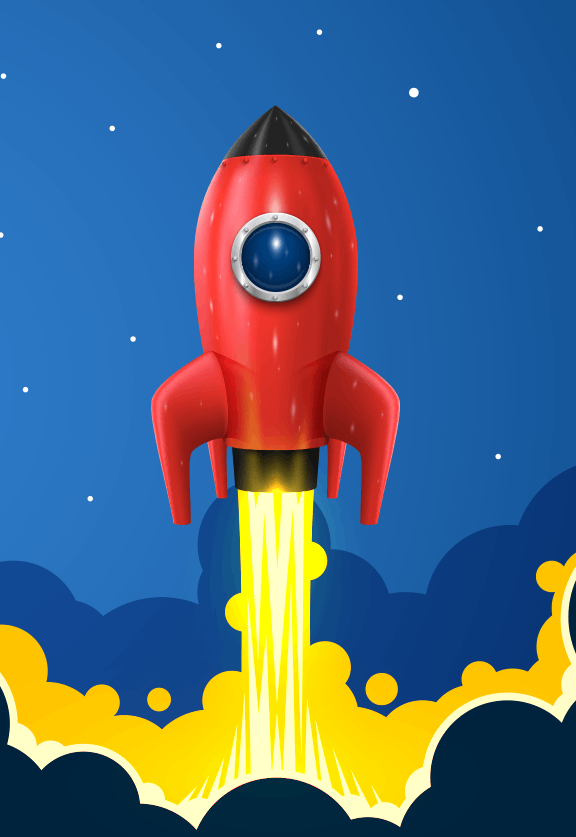
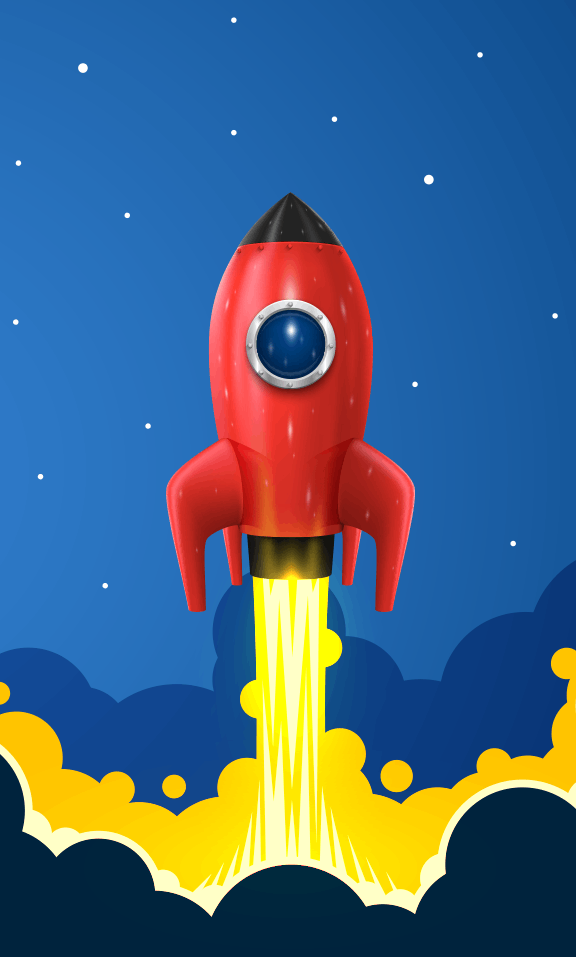
new landing page

diff --git a/css/site.css b/css/site.css
@@ -17,19 +17,11 @@ font-family: 'Racing Sans One', cursive;
 font-family: 'Roboto', sans-serif; */
 
 /* MAIN HEADER */
-.mainHeader {
-    margin-top: 50vh;
-    height: 50px;        
-    color: var(--cf-light);
-  }
-
 .mainTitle {
     font-family: var(--cf-title-font);
     font-size: 2.3rem;
     line-height: 1.8rem;
-    color: var(--cf-light);
-    /* position: center; */
-    
+    color: var(--cf-light);  
 }
 
 .subTitle {
@@ -41,16 +33,17 @@ font-family: 'Roboto', sans-serif; */
     color: var(--cf-light)
 }
 
-
-.mainHeader-content {
+.mainHeader-wrapper {
+    padding-left: 1.3rem;
+  }
+  
+  .mainHeader-content {
     height: 100%;
     display: flex;
-    position: absolute;
-    left: 0px;
-    top: 500px;
-    padding-left: 40px;
     align-items: center;
-}
+    position: absolute;
+    
+  }
 
 .navbar-brand {
     font-size: 1.5rem;
@@ -61,6 +54,10 @@ font-family: 'Roboto', sans-serif; */
   font-size: 1rem;
   color: var(--cf-light);
   line-height: 1rem;
+}
+
+.mainLogo {
+    padding-right: 10px;
 }
 
 .btn-primary {
@@ -74,19 +71,22 @@ font-family: 'Roboto', sans-serif; */
 /* STICKY FOOTER */
 html,
 body {
-    height: 80%;
+    height: 100%;
 }
 
 body {
     display: flex;
     flex-direction: column;
-    background-image: url("/img/LandingPage_576.png");
-    background-position: center;
+    min-height: 100vh;
+    background-image: url("/img/LandingPageNew_576.png");
+    background-position: top center;
     background-repeat: no-repeat;
     background-color: var(--cf-darkblue);
-    min-height: 100vh;
     font-family: var(--cf-body-font);
+    background-size: contain;
     /* text-align: justify; */
+
+    
 }
 
 .content {
@@ -101,9 +101,6 @@ body {
 /* STICKY FOOTER */
 
 /* **************MEDIA QUERIES**********
-// X-Small devices (portrait phones, less than 576px)
-// No media query for `xs` since this is the default in Bootstrap */
-
 /* // Small devices (landscape phones, 576px and up) */
 @media (min-width: 576px) {
 
@@ -126,16 +123,14 @@ body {
     }
 
     .mainHeader-content {
-        height: 85%;
-        /* display: flex; */
+        height: 95%;
         position: absolute;
-        /* left: 0px; */
-        top: 70px;
-        /* padding-left: 40px; */
-        /* align-items: center; */
+        top: 30px;
     }
 
-    
+    .mainLogo {
+    height: 3rem;
+}
 }
 
 /* // Medium devices (tablets, 768px and up) */
@@ -143,7 +138,7 @@ body {
 
     body {
         background-image: url("/img/LandingPage_992.png");
-        background-position: top right;
+        background-position: right;
         background-repeat: no-repeat;
     }
 
@@ -156,6 +151,10 @@ body {
         font-size: 1.1rem;
         letter-spacing: .1rem;
         line-height: 1.2rem;
+    }
+
+    .mainLogo {
+        height: 4rem;
     }
 }
 
@@ -198,6 +197,10 @@ body {
         font-size: 1.7rem;
         letter-spacing: .1rem;
         line-height: 1.8rem;
+    }
+
+    .mainLogo {
+        height: 5rem;
     }
 }
 
